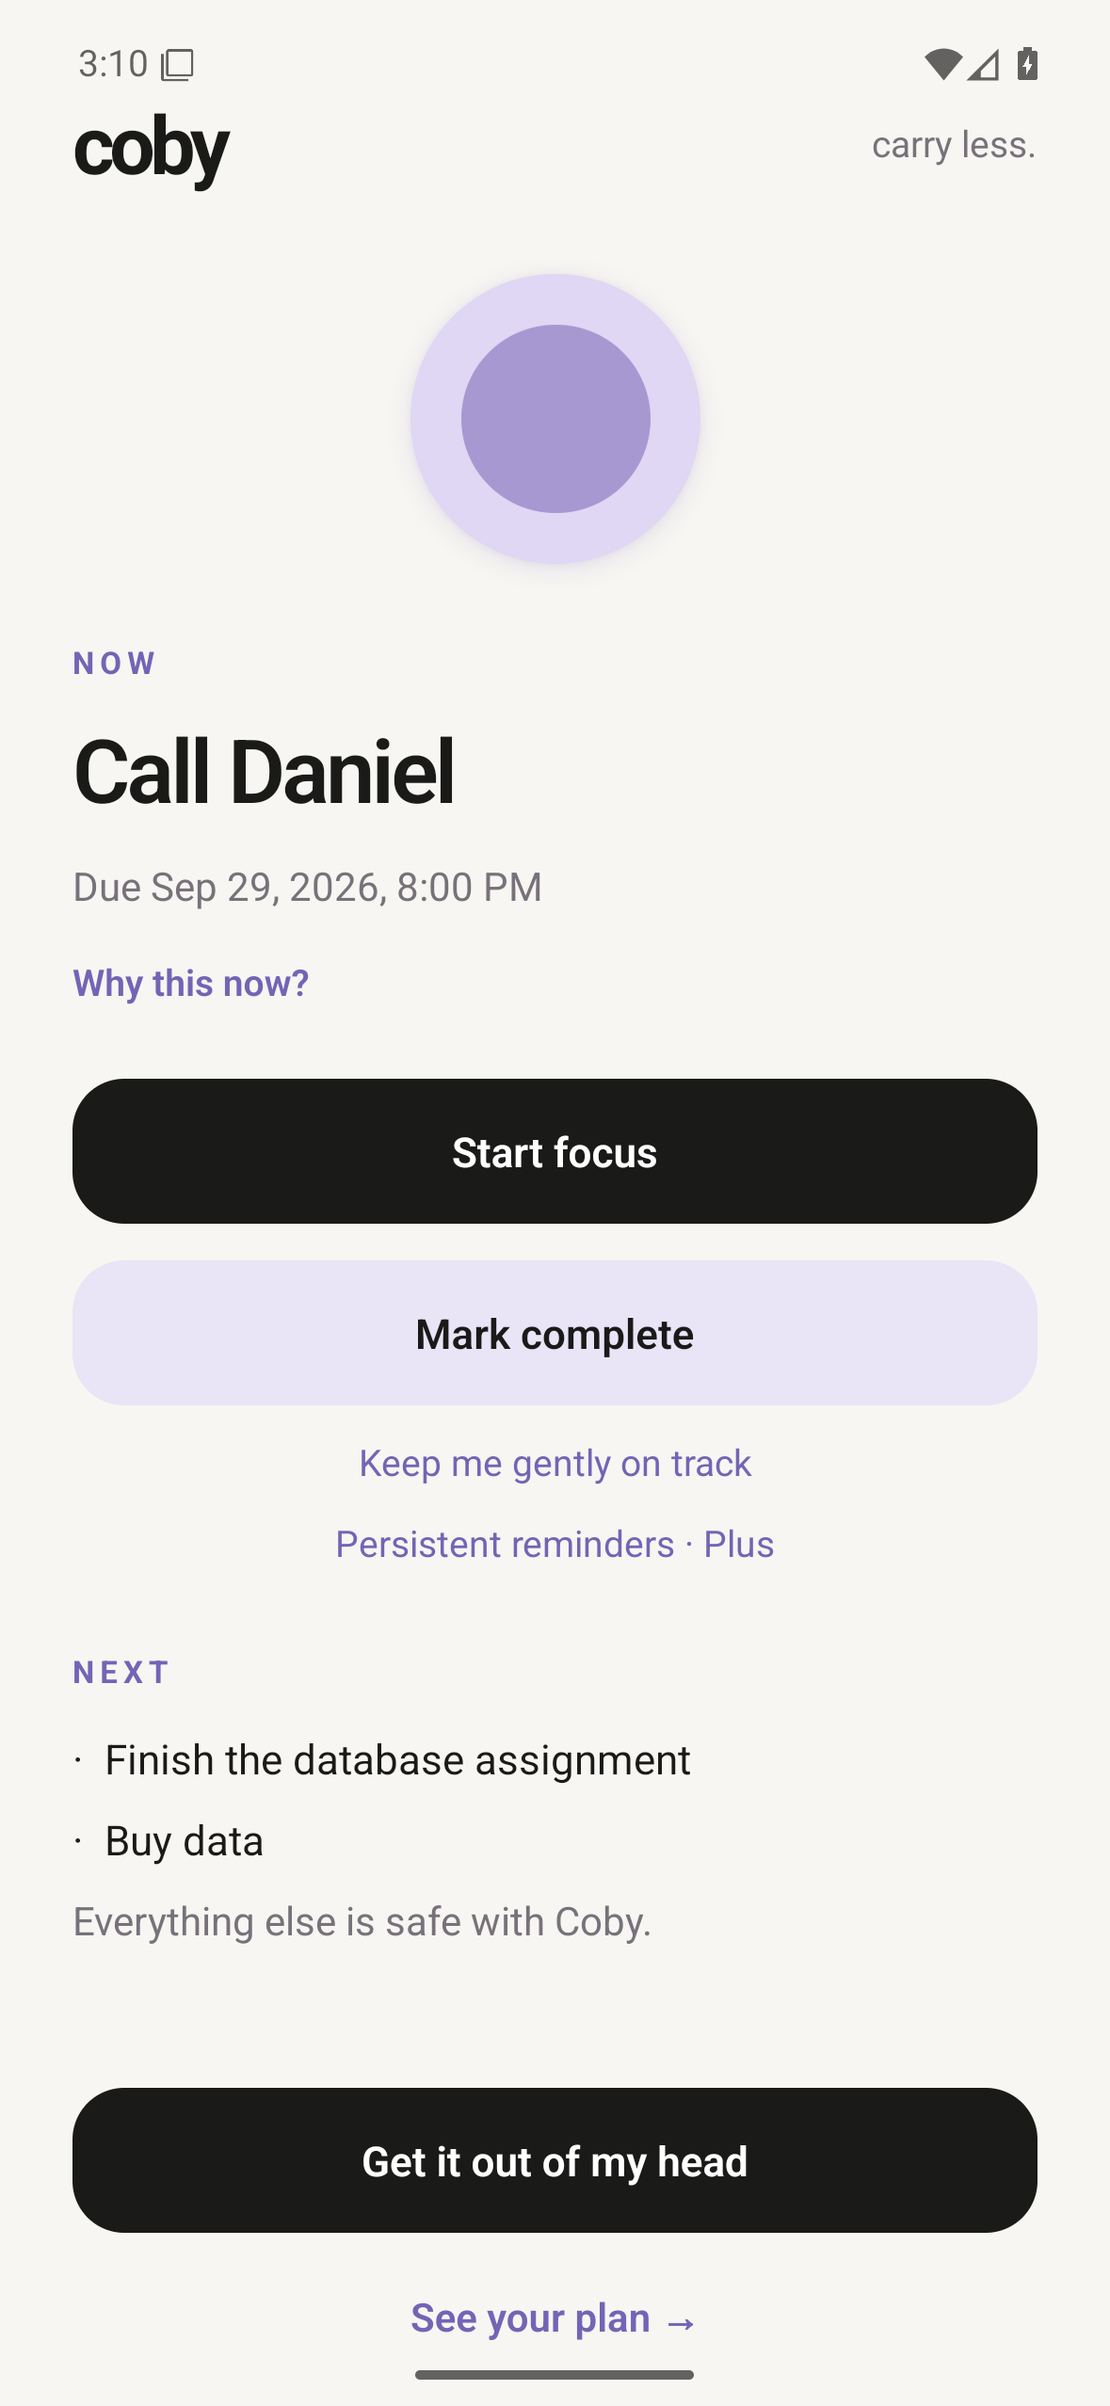
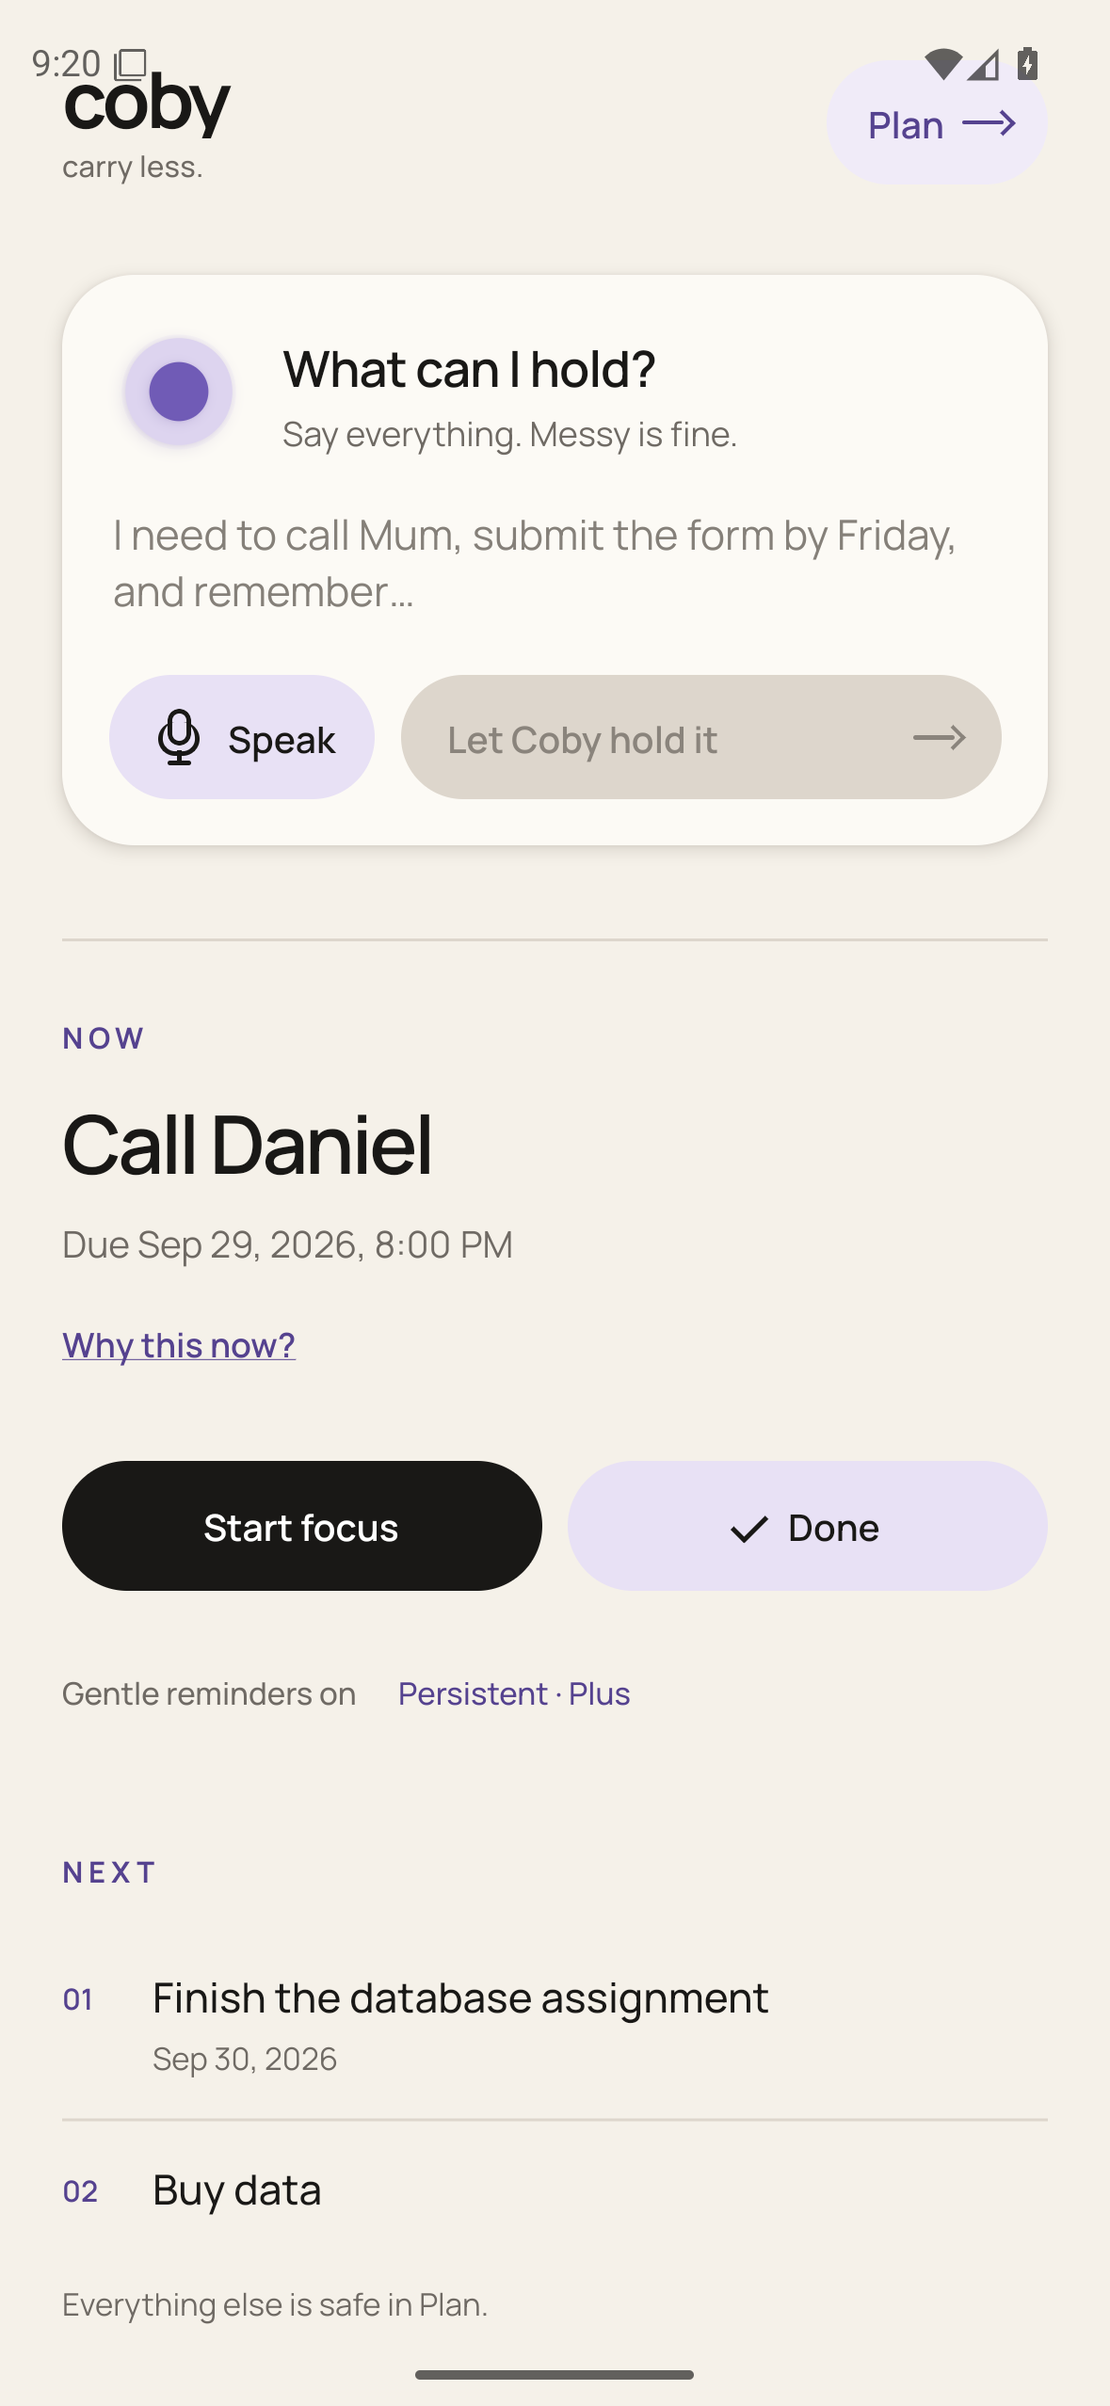
docs: record Home recovery review

diff --git a/docs/P0_AUDIT.md b/docs/P0_AUDIT.md
@@ -8,32 +8,32 @@ This audit compares the shipped code with `PRODUCT.md`, `IMPLEMENTATION_PLAN.md`
 
 The previous build was a functional prototype, not completed P0. It proved parsing, persistence, deterministic ranking, Plan, Focus, notifications, and RevenueCat wiring. It did not make the brain dump the core interaction, did not prove spoken transcription, and did not reach the promised visual quality. Its Home screen read as a conventional task screen with a decorative orb and a capture button added at the bottom.
 
-P0 is now **in progress**. The first recovery slice replaces the old Arrival/Home/Capture split with an adaptive Home composer, adds explicit voice states and service checks, preserves typed text during dictation, and gives the orb functional states. This slice has passed typecheck, lint, and unit tests; its Android render and spoken transcription still require device verification.
+P0 is now **in progress**. The first recovery slice replaces the old Arrival/Home/Capture split with an adaptive Home composer, adds explicit voice states and service checks, preserves typed text during dictation, and gives the orb functional states. This slice passes typecheck, lint, and unit tests. Its populated Home state also passed a 1179×2556 Android release render and an Android-specific finish review. Spoken transcription still requires hands-on device verification.
 
 ## Product gap matrix
 
 | P0 area | Previous state | Current state | Required to close |
 | --- | --- | --- | --- |
-| Arrival | Branded gate delayed the first dump behind “Come in.” | Empty Home now leads with the brand promise and expanded dump composer. | Verify first-run Android render and keyboard behavior. |
-| Brain dump | Text field and mic lived on a secondary screen behind a bottom CTA. | Adaptive composer is always present on Home; expanded when clear, compact when Coby holds items. | Android visual review and end-to-end fixture save. |
+| Arrival | Branded gate delayed the first dump behind “Come in.” | Empty Home now leads with the brand promise and expanded dump composer. | Verify the empty first-run state and keyboard behavior on the local Pixel 6. |
+| Brain dump | Text field and mic lived on a secondary screen behind a bottom CTA. | Adaptive composer is always present on Home; expanded when clear, compact when Coby holds items. | Visual review passed for the populated state; verify text entry, receipt, and save on the local Pixel 6. |
 | Voice | Permission request and generic fallback only; spoken result never verified. | Checks Android recognizer availability and services, exposes listening/Done states, appends partial/final segments, preserves pre-typed words, and gives recoverable errors. | Speak a multi-clause dump on Android and confirm live/final transcript, stop, retry, denial, and typed fallback. |
 | Orb | Static concentric circles used as decoration. | Animated idle, listening, thinking, and settled states with reduced-motion support. | Verify motion and accessibility on Android. |
 | Understand | Fixture and live Gemini extraction passed the demo sentence. | Logic unchanged and still narrow by design. | Test network failure and ambiguous clarification behavior. |
 | Receipt | Shows extracted items and allows title edits only. | Visual behavior unchanged in this slice. | Allow correction of kind, date/time, and duration without inventing values; surface clarification questions. |
 | Hold | SQLite persistence and completion survived restart. | Passed behavior; unchanged. | Regression check after the redesigned capture flow. |
-| Home | Correct one NOW and up to two NEXT, but generic hierarchy and capture was buried. | Capture leads; NOW and NEXT follow with quieter controls and a persistent Plan path. | Android screenshot review across empty and populated states. |
+| Home | Correct one NOW and up to two NEXT, but generic hierarchy and capture was buried. | Capture leads; NOW and NEXT follow with quieter controls and a persistent Plan path. | Populated Android render passed; verify the empty state and keyboard interaction locally. |
 | Plan | List/day behavior passed. Visual treatment remains from prototype. | Behavior passed; visual system is inconsistent with the new Home. | Redesign after capture/voice verification while preserving inspectability. |
 | Focus | Start, end, and complete passed. Screen remains visually basic. | Behavior passed; visual system is inconsistent with the new Home. | Redesign after capture/voice verification. |
 | Rank/explanation | Deterministic rules and explanations covered by unit tests. | Passed. | Keep regression coverage. |
 | Nudges | Immediate local notification passed. Future timing, cancellation, and caps were not exercised on device. | Partial. | Verify reschedule, completion cancellation, and Gentle/Persistent frequency on Android. |
 | Commitment/billing | $4.99 Test Store purchase unlocked `coby_plus`; restore untested. | Partial. | Verify restore and re-check the gate after UI changes. |
-| Visual system | Broad colors matched the brief, but typography, layout, motion, and component craft did not. | Home now uses Manrope, revised warm-paper tokens, authored icon geometry, functional orb states, and a clearer hierarchy. | Render review; then extend the approved system to Receipt, Plan, Focus, Lab, and paywall. |
+| Visual system | Broad colors matched the brief, but typography, layout, motion, and component craft did not. | Home now uses Manrope, revised warm-paper tokens, authored icon geometry, functional orb states, and a clearer hierarchy. | Home passed the finish review after Android touch targets were raised to 48 dp; extend this system to Receipt, Plan, Focus, Lab, and paywall. |
 | Architecture | Most UI and orchestration lived in one large `App.tsx`. | Home, orb, icons, theme, and speech helpers are extracted. | Continue moving remaining screens into thin presentational components as they are redesigned. |
-| Demo/submission | Deterministic seed exists; old screenshot represents the rejected UI; no final demo recorded. | Old screenshot is historical evidence only. | Capture a new validated screenshot and record the sub-two-minute demo after P0 passes. |
+| Demo/submission | Deterministic seed exists; old screenshot represents the rejected UI; no final demo recorded. | Validated Home screenshot now represents the recovery build. | Record the sub-two-minute demo only after all P0 rows pass. |
 
 ## Recovery order
 
-1. Render and verify the new adaptive composer and spoken transcription on Pixel 6.
+1. Verify the new adaptive composer with real text and spoken transcription on the local Pixel 6.
 2. Complete Receipt correction for all extracted facts and clarification states.
 3. Apply the visual system to Plan and Focus without expanding scope.
 4. Verify scheduled nudge lifecycle and RevenueCat restore.
@@ -43,4 +43,4 @@ P0 is now **in progress**. The first recovery slice replaces the old Arrival/Hom
 
 - Local Android compilation reaches the SDK but the NDK `27.1.12297006` download resets before completion. The prior empty package directory was moved to `27.1.12297006.incomplete-20260929`; Gradle attempted a clean reinstall and reported the connection reset.
 - Spoken transcription cannot be claimed until a real voice reaches the emulator/device recognizer.
-- The new Home has not yet produced an Android screenshot, so visual quality remains unapproved.
+- The populated Home has passed release rendering and visual review; the empty state and keyboard interaction still need local Pixel 6 verification.

diff --git a/docs/TEST_MATRIX.md b/docs/TEST_MATRIX.md
@@ -5,12 +5,12 @@ Record date, device/emulator, build, result, and evidence for every executed row
 | Area | Scenario | Target | Status |
 | --- | --- | --- | --- |
 | Android build | Compile debug APK | GitHub Actions | Passed 2026-09-29 |
-| Android screenshot | Install fixture release APK and capture 1179×2556 Home | GitHub Android emulator | Passed 2026-09-29; screenshot included in assets/submission |
+| Android screenshot | Install fixture release APK and capture 1179×2556 Home | GitHub Android emulator | Passed 2026-09-29; reviewed 1179×2556 recovery screenshot in assets/submission; https://github.com/emmaGH1/coby/actions/runs/36631406071 |
 | Android runtime | Install/open current recovery build | Pixel 6 AVD, Android 16 / API 36 | Pending: earlier prototype passed; current build blocked by incomplete NDK download |
-| Capture | Adaptive Home composer accepts and preserves an editable text dump | Unit + Pixel 6 AVD | Partial: typed/voice merge helper passed; current Android layout and keyboard behavior pending |
+| Capture | Adaptive Home composer accepts and preserves an editable text dump | Unit + Pixel 6 AVD | Partial: typed/voice merge helper passed and populated composer release-rendered; real text entry and keyboard behavior pending locally |
 | Receipt | Correct items displayed; unknown due date stays absent | Pixel 6 AVD | Passed 2026-09-29; three items shown, including one undated item |
 | Persistence | Saved items survive app kill/restart | Pixel 6 AVD | Passed 2026-09-29; saved and completed state restored after reconnect |
-| Home | Persistent composer, one NOW, max two NEXT, clear empty state | Unit + Android | Partial: data limits passed previously; redesigned empty/populated Android render pending |
+| Home | Persistent composer, one NOW, max two NEXT, clear empty state | Unit + Android | Partial: data limits passed and populated recovery Home release-rendered; empty state and keyboard interaction pending locally |
 | Completion | Completing NOW removes it and recomputes NOW | Pixel 6 AVD | Passed 2026-09-29; assignment surfaced after call was completed |
 | Parser | Messy input extracts only stated facts; ambiguity flagged | Unit + Android | Partial: fixture and configured Gemini sample passed 2026-09-29 with no invented deadline hour; ambiguity handling not directly tested |
 | Plan | List shows active items; Calendar selected day shows correct items | Pixel 6 AVD | Passed 2026-09-29; Sep 30 assignment appeared on selected day; undated item stayed in List |
@@ -23,8 +23,8 @@ Record date, device/emulator, build, result, and evidence for every executed row
 | Gemini | Schema, nulls, failures, offline fallback behavior | Unit + Android dev build | Partial: fixture and live sample extraction passed on Pixel 6; failure/offline cases remain |
 | RevenueCat | Test Store purchase, restore, entitlement, free vs Plus gates | Android development build | Partial: verified $4.99 monthly product, coby_plus mapping, valid Test Store purchase, and Persistent reminder unlock on Pixel 6 AVD; restore remains untested |
 | Lab | Seed, clear, advance time, trigger nudge, parser fixture, billing state | Android dev build | Partial: Gemini selection, billing diagnostic, immediate nudge, and clear-data controls verified; time controls not exercised |
-| Quality | Typecheck, lint, meaningful tests, visual review, accessibility | CI/local + Android | Partial: typecheck, lint, and 19 tests pass for recovery slice; new Home visual review pending; local NDK reinstall failed when the download connection reset |
+| Quality | Typecheck, lint, meaningful tests, visual review, accessibility | CI/local + Android | Partial: typecheck, lint, and 19 tests pass; populated Home passed release render and finish review with 48 dp Android targets; remaining screens and local voice still pending |
 
 ## Latest run
 
-2026-09-29 recovery slice: TypeScript, lint, and 19 tests pass. Unit checks cover preserving typed text during dictation and actionable recognizer errors. The Pixel 6 AVD is connected and exposes Google's recognition service. A clean NDK reinstall was attempted after moving the empty package folder aside; Gradle accepted the license and began the exact `27.1.12297006` install, but the download failed with `java.net.SocketException: Connection reset`. The redesigned Home and real spoken transcription therefore remain unverified on Android. Earlier prototype evidence for parsing, persistence, rank, Plan, Focus, notification delivery, and RevenueCat purchase remains valid at the behavior level, while its visual screenshot is stale.
+2026-09-29 recovery slice: TypeScript, lint, and 19 tests pass. Android release capture https://github.com/emmaGH1/coby/actions/runs/36631406071 produced the reviewed 1179×2556 populated Home, now checked into `assets/submission/screenshot-home.png`. The finish review accepted the capture-first composition and required 48 dp touch targets for secondary Android controls; commits `527a3f9` and `071a5c3` contain the target and alignment fixes. The Pixel 6 AVD exposes Google's recognition service, but the local NDK download still resets, so real spoken transcription, empty-state keyboard behavior, and a current local APK remain unverified. Earlier prototype evidence for parsing, persistence, rank, Plan, Focus, notification delivery, and RevenueCat purchase remains valid at the behavior level.

diff --git a/docs/HANDOVER.md b/docs/HANDOVER.md
@@ -4,9 +4,9 @@
 
 P0 is **in progress**. The earlier implementation proved the core data and integration plumbing but did not meet the product canon for capture prominence, voice trust, or visual quality. See `docs/P0_AUDIT.md` for the screen-by-screen assessment.
 
-The first recovery slice is implemented: Coby now opens on an adaptive brain-dump composer, keeps capture visible above NOW/NEXT, uses the orb as an idle/listening/thinking/settled indicator, and handles Android speech availability, segmented transcription, typed-text preservation, explicit completion, and recoverable errors. Home, orb, icons, theme, and speech helpers are separated from the remaining screen coordinator.
+The first recovery slice is implemented and release-rendered: Coby now opens on an adaptive brain-dump composer, keeps capture visible above NOW/NEXT, uses the orb as an idle/listening/thinking/settled indicator, and handles Android speech availability, segmented transcription, typed-text preservation, explicit completion, and recoverable errors. Home, orb, icons, theme, and speech helpers are separated from the remaining screen coordinator.
 
-This slice passes TypeScript, lint, and 19 unit tests. Android render and spoken transcription are not yet verified. Local native compilation is blocked while Gradle downloads NDK `27.1.12297006`; the clean reinstall began but failed with a connection reset.
+The populated Home passed a 1179×2556 Android release capture and an inline finish review. The review confirmed the capture-first hierarchy and warm paper/ink/violet world, then required 48 dp targets for Plan, reason, and reminder controls. Commit `527a3f9` added the targets and `071a5c3` aligned the mixed status/action row after recapture. Spoken transcription is still unverified with a real voice, and the remaining prototype screens have not inherited the Home system.
 
 ## Verified baseline retained
 
@@ -20,9 +20,10 @@ This slice passes TypeScript, lint, and 19 unit tests. Android render and spoken
 - `npm run typecheck`: passed.
 - `npm run lint`: passed.
 - `npm test`: 19/19 passed, including typed-text preservation and actionable voice error copy.
-- Pixel 6 AVD is connected on Android 16 / API 36.
-- Android default recognition service resolves to Google TTS recognition, and Google speech packages are installed.
-- Local Gradle reached automatic NDK installation after Java and Android SDK paths were supplied. The NDK download ended with `java.net.SocketException: Connection reset`, so no current APK or screenshot was produced.
+- Android release capture: passed at https://github.com/emmaGH1/coby/actions/runs/36631406071.
+- The checked-in `assets/submission/screenshot-home.png` is the reviewed 1179×2556 recovery Home.
+- Pixel 6 AVD is connected on Android 16 / API 36 and exposes Google's default recognition service.
+- Local Gradle reached automatic NDK installation after Java and Android SDK paths were supplied. The NDK download ended with `java.net.SocketException: Connection reset`, so live speech remains blocked locally until the native build can be refreshed.
 
 ## Known P0 gaps
 
@@ -30,7 +31,8 @@ This slice passes TypeScript, lint, and 19 unit tests. Android render and spoken
 - Receipt still edits titles only; date/time, duration, kind, and clarification correction remain.
 - Plan, Focus, paywall, and Lab still use the prototype visual system.
 - Scheduled nudge timing/cancellation/frequency and RevenueCat restore remain unverified.
-- The checked-in submission screenshot shows the rejected prototype Home and must be replaced after visual approval.
+- Empty-state Home and keyboard interaction need a local Pixel 6 pass.
+- No final demo video has been recorded.
 
 ## Environment note
 
@@ -38,4 +40,4 @@ For local Android commands in a fresh PowerShell session, provide Android Studio
 
 ## NEXT ACTION
 
-Complete NDK `27.1.12297006`, build the recovery slice on the Pixel 6, and verify the empty and populated Home composer plus a real spoken multi-clause dump before redesigning Receipt.
+Verify a real multi-clause spoken dump on the local Pixel 6, then redesign Receipt so the user can correct title, kind, date/time, duration, and clarification before saving.

diff --git a/docs/DECISIONS.md b/docs/DECISIONS.md
@@ -52,3 +52,9 @@
 - **NDK repair is an environment blocker:** the empty `27.1.12297006` folder was moved aside; Gradle's clean reinstall reached the download and failed with a connection reset.
 
 - **Release demo state requires an explicit flag:** Coby Lab stays development-only. `EXPO_PUBLIC_COBY_DEMO_MODE=true` auto-seeds the fixture on a clean release install for deterministic CI capture and demo rehearsal.
+
+## 2026-09-29 — Home finish review
+
+- **Treat Android capture as product evidence:** the release screenshot must come from an API 36 emulator at the required 1179×2556 size; a browser or JavaScript bundle is not visual proof.
+- **Keep secondary actions touchable:** Plan, explanation, and reminder actions meet the 48 dp Android touch-target floor even when their visual treatment stays quiet.
+- **Approve Home as the visual reference, not P0 as a whole:** Receipt, Plan, Focus, paywall, and Lab must inherit the system, while speech and remaining integration checks stay open.
